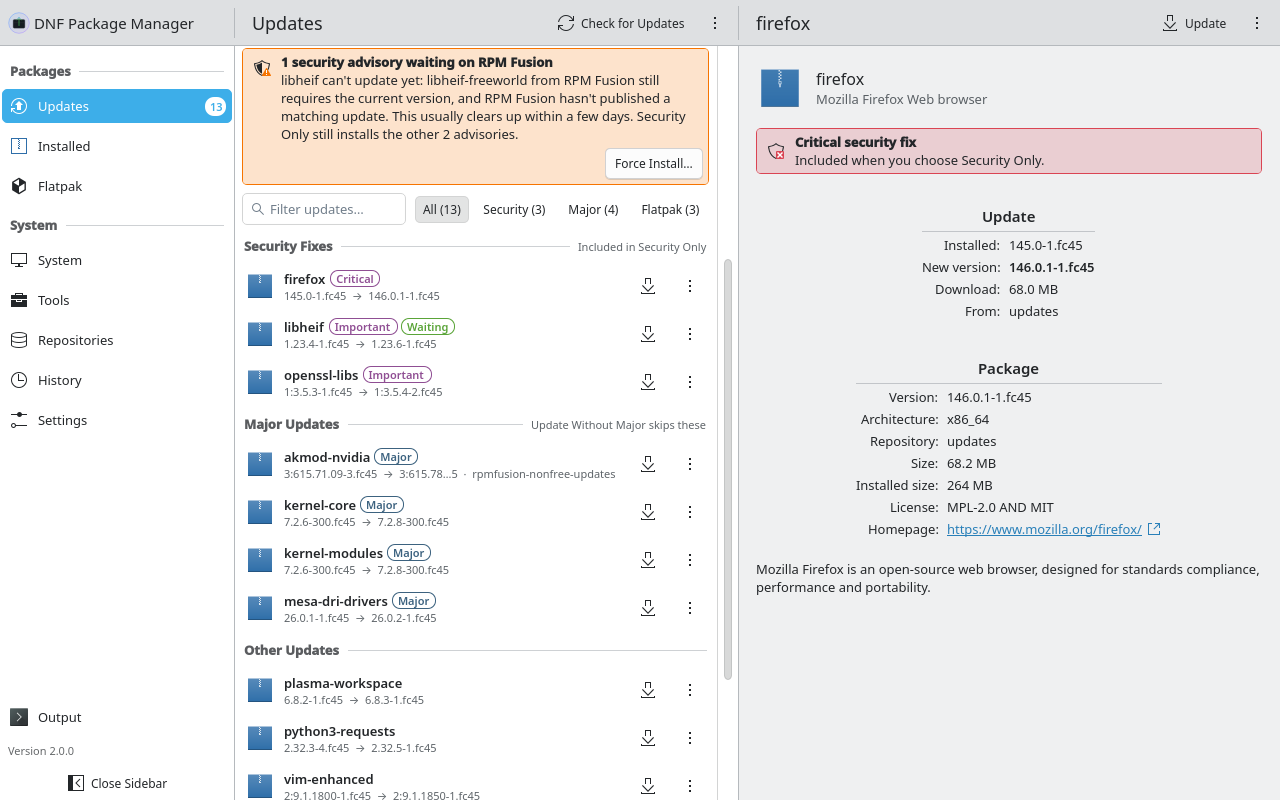
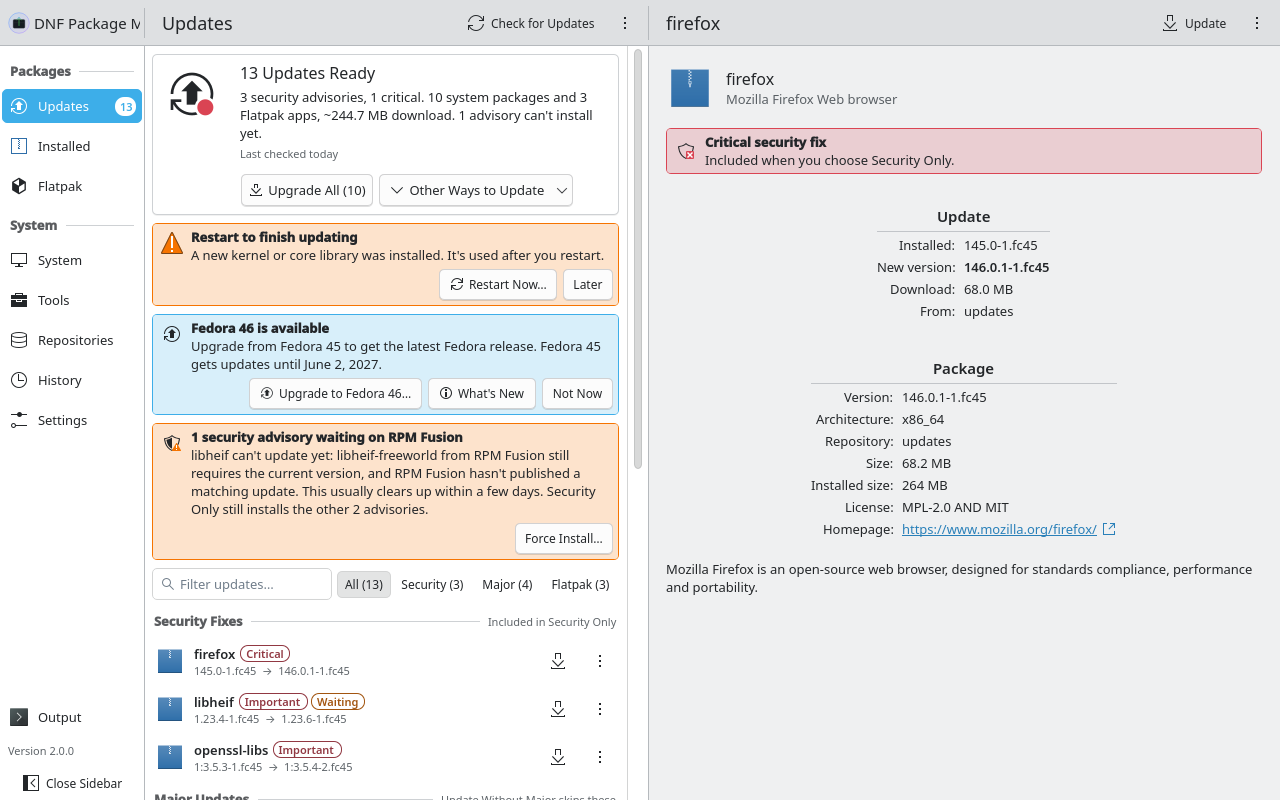
docs: use v2 labels throughout and refresh screenshots

Changed region(s): [[0.0, 0.0, 0.9688, 1.0], [0.6875, 0.25, 0.8438, 0.4062], [0.5938, 0.0, 0.625, 0.0312]]

diff --git a/docs/switching-from-discover.md b/docs/switching-from-discover.md
@@ -50,12 +50,12 @@ These changes survive Discover package updates. PackageKit itself keeps running,
 
 ## 3. Set up reminders
 
-Under **Settings → Update Reminders**, turn on **Remind Me About Pending Updates** and choose how often to check. A systemd user timer then runs `dnf-gui --check` on that schedule (at 9 AM), even while the app is closed, and sends a desktop notification when updates are waiting. Click the notification, or its **View Updates** button, to open the Updates page with a fresh scan; if the app is already open, its window comes forward. It also takes a quick look at login and checks only if one is due, so a check missed while the PC was off or asleep isn't lost. Nothing polls, and nothing runs before you log in. After sending a reminder, the check stays around (at most until shortly before the next check) only so it can answer a click, then exits. If you're offline, it retries at most three times, 15 minutes apart.
+Under **Settings → Reminders**, turn on **Remind me about pending updates** and choose how often to check. A systemd user timer then runs `dnf-gui --check` on that schedule (at 9 AM), even while the app is closed, and sends a desktop notification when updates are waiting. Click the notification, or its **View Updates** button, to open the Updates page with a fresh scan; if the app is already open, its window comes forward. It also takes a quick look at login and checks only if one is due, so a check missed while the PC was off or asleep isn't lost. Nothing polls, and nothing runs before you log in. After sending a reminder, the check stays around (at most until shortly before the next check) only so it can answer a click, then exits. If you're offline, it retries at most three times, 15 minutes apart.
 
 - **Security Updates Only** keeps quiet about routine updates and only notifies you about security fixes.
 - **Include Flatpak Updates** notifies you about Flatpak updates either way.
 
-Click **Send Test Notification** to see what it looks like, and click the notification to check that it opens the Updates page.
+Click **Send a Test Reminder** to see what it looks like, and click the notification to check that it opens the Updates page.
 
 ## 4. Pick your update style
 
@@ -65,18 +65,18 @@ On the **Updates** page, the main button runs your favorite update mode. Open th
 |---|---|---|
 | Upgrade All | `dnf upgrade --refresh` | Keeping everything current |
 | Update Everything | `dnf upgrade`, then `flatpak update` | One click for system and apps |
-| Update without Major | `dnf upgrade --exclude=kernel*,*nvidia*,mesa-*,…` | Day-to-day updates that won't touch the kernel or graphics stack |
+| Update Without Major | `dnf upgrade --exclude=kernel*,*nvidia*,mesa-*,…` | Day-to-day updates that won't touch the kernel or graphics stack |
 | Security Only | `dnf upgrade --security` | Getting fixes fast with minimal change |
 
 Click the star next to a mode to make it the main button. `Ctrl+U` runs it from any page.
 
-Rows tagged **Major** are the updates Update without Major skips: by default the kernel, firmware, graphics drivers and bootloader. Hover over the tag to see why a package counts as major. To have Update without Major skip something else as well, click **Mark Major** on its row (**Unmark Major** undoes it). The default patterns are editable under **Settings → Update without Major**.
+Rows tagged **Major** are the updates Update Without Major skips: by default the kernel, firmware, graphics drivers and bootloader. Open a row to see why a package counts as major. To have Update Without Major skip something else as well, choose **Treat as Major** from its row menu (**Don't Treat as Major** undoes it). The default patterns are editable under **Settings → Updates → Major packages**.
 
 > "Major" doesn't mean "never updated". Upgrade All and Update Everything install major updates too, and kernel updates include security fixes, so run **Upgrade All** regularly.
 
 ## 5. Optional: stop the password prompts
 
-**Settings → Password Prompts → Enable Passwordless** with **Updates Only** installs a sudoers rule covering exactly three commands: Upgrade All, Security Only and Update without Major. Installs, removals, repository changes and firmware updates still ask for a password. The rule names the exact Update without Major command, so after you change which packages count as major, Settings tells you to click **Enable Passwordless** once more.
+**Settings → Passwordless Updates → Turn On…** with **Updates Only** installs a sudoers rule covering exactly three commands: Upgrade All, Security Only and Update without Major. Installs, removals, repository changes and firmware updates still ask for a password. The rule names the exact Update without Major command, so after you change which packages count as major, Settings tells you to click **Enable Passwordless** once more.
 
 ## Optional: reclaim PackageKit's cache
 
@@ -95,6 +95,6 @@ It's only a cache. Discover rebuilds what it needs the next time you open it.
 1. **Settings → KDE Discover → Let Discover Check Again** undoes the per-user takeover.
 2. If you used **Turn Off for All Users**, choose **Show advanced options → Turn Back On for All Users…**. This unmasks everything and restores the checker's autostart entry if an older version of this app removed it.
 3. If you used **Uninstall Checker**, reinstall it: `sudo dnf install plasma-discover-notifier`.
-4. Turn off **Update Reminders** so you don't get two sets of notifications.
+4. Turn off **Settings → Reminders** so you don't get two sets of notifications.
 
 Then log out and back in.

diff --git a/docs/faq.md b/docs/faq.md
@@ -14,7 +14,7 @@ No. The takeover only turns off Discover's *update* checks and notifications. Di
 
 dnf and PackageKit lock the package database, so they can't change the system at the same time; one waits for the other. Conflicts in practice come from both apps checking for updates and notifying you, which the takeover turns off.
 
-### What does "Update without Major" skip, and is that safe long term?
+### What does "Update Without Major" skip, and is that safe long term?
 
 By default it skips the kernel (`kernel*`), firmware (`linux-firmware*`, `*-gpu-firmware`), NVIDIA and Mesa graphics drivers (`*nvidia*`, `akmod-*`, `mesa-*`) and the bootloader (`grub2-*`, `shim-*`). These are the updates most likely to need a reboot or affect the display. They're tagged **Major** on the Updates page.
 
@@ -22,7 +22,7 @@ It's meant for day-to-day updates, not forever. Kernel and driver updates includ
 
 ### What does the "Major" tag mean?
 
-It marks an update that **Update without Major** will skip. It doesn't mean the package is frozen: **Upgrade All** and **Update Everything** still install it. Hover over the tag to see why a package counts as major: either it matches one of the core patterns above, or you clicked **Mark Major** on it.
+It marks an update that **Update Without Major** will skip. It doesn't mean the package is frozen: **Upgrade All** and **Update Everything** still install it. Open the update to see why it counts as major: either it matches one of the core patterns above, or you chose **Treat as Major** for it.
 
 ### How does it know a new Fedora release is out?
 
@@ -56,7 +56,7 @@ The Updates page shows a banner naming the package holding the update back, and 
 
 ### Why does it ask for my password?
 
-Anything that changes the system runs through polkit (`pkexec`), the same password dialog other desktop tools use. To stop prompts for routine updates, enable **Settings → Password Prompts → Updates Only**. It covers exactly the Upgrade All, Security Only and Update without Major commands; everything else still asks.
+Anything that changes the system runs through polkit (`pkexec`), the same password dialog other desktop tools use. To stop prompts for routine updates, use **Settings → Passwordless Updates → Turn On…** with **Updates Only**. It covers exactly the Upgrade All, Security Only and Update Without Major commands; everything else still asks.
 
 ### What does it connect to?
 

diff --git a/README.md b/README.md
@@ -96,7 +96,7 @@ DNF Package Manager does the job the way you would in a terminal, with a proper 
 
 ### Settings
 - **Discover takeover** for your account, or for every account on the computer. Fully reversible. If Discover already scheduled updates for your next restart, the app tells you and can cancel them (`pkcon offline-cancel`), so PackageKit doesn't install a stale update set when you reboot.
-- **Update reminders** on your Check Every schedule, even while the app is closed, optionally only for security updates. Click a reminder (or its **View Updates** button) to open the Updates page with a fresh scan.
+- **Update reminders** on your chosen schedule, even while the app is closed, optionally only for security updates. Click a reminder (or its **View Updates** button) to open the Updates page with a fresh scan.
 - **Passwordless updates (optional):** a validated sudoers rule that lets the app's exact upgrade commands run without a password prompt, while installs and removals still ask. See [Security model](#security-model).
 
 ### Desktop
@@ -133,7 +133,7 @@ Or run it without installing: `PYTHONPATH=src python3 -m dnf_gui`
 
 1. Open **DNF Package Manager** from the application menu (System), or run `dnf-gui`.
 2. Go to **Settings → KDE Discover** and click **Use This App for Updates…**.
-3. Turn on **Update Reminders** if you want a notification when updates are waiting.
+3. Turn on **Settings → Reminders** if you want a notification when updates are waiting.
 
 The full walkthrough, including how to undo it, is in [Switching from Discover](docs/switching-from-discover.md).
 
